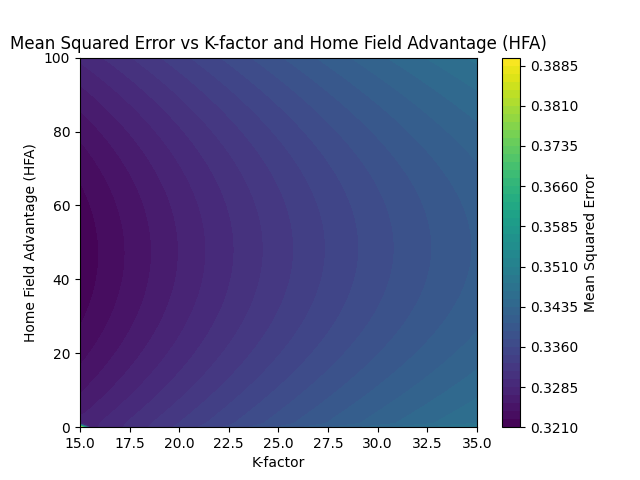
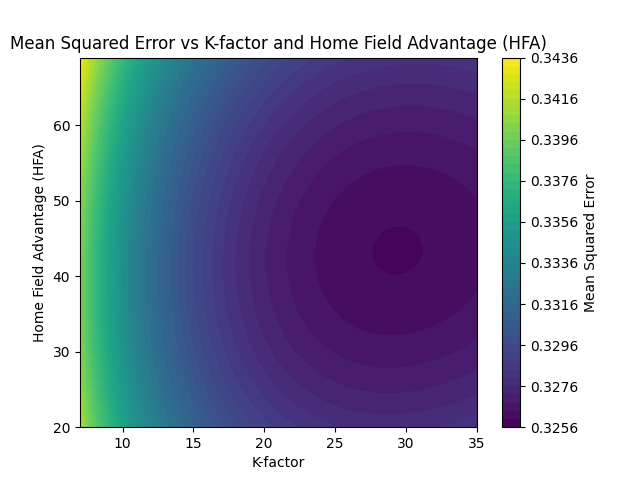
[FIX] step4 update_elo_ratings : K = 29.5 // HFA = 43

diff --git a/step4_bestHFAandK.py b/step4_bestHFAandK.py
@@ -13,7 +13,7 @@ elo_ratings = {team: 1600 for team in set(teams)}
 def expected_score(rating1, rating2):
     return 1 / (1 + 10**((rating2 - rating1) / 400))
 
-def update_elo_ratings(home_team, away_team, home_goals, away_goals, K, HFA):
+def update_elo_ratings(home_team, away_team, home_goals, away_goals, K, HFA, elo_ratings):
     home_rating = elo_ratings[home_team] + HFA
     away_rating = elo_ratings[away_team]
     
@@ -42,8 +42,8 @@ def encode_result(home_score, away_score):
         return 0.5, 0.5
 
 # Grid search for K and HFA
-K_values = np.arange(15, 35.5, 0.5)
-HFA_values = np.arange(0, 101, 1)
+K_values = np.arange(7, 35.5, 0.5)
+HFA_values = np.arange(20, 70, 1)
 errors = np.zeros((len(K_values), len(HFA_values)))
 
 for i, K in enumerate(K_values):
@@ -65,7 +65,7 @@ for i, K in enumerate(K_values):
             expected_home = expected_score(home_rating, away_rating)
             expected_away = expected_score(away_rating, home_rating)
 
-            update_elo_ratings(home_team, away_team, home_score, away_score, K, HFA)
+            update_elo_ratings(home_team, away_team, home_score, away_score, K, HFA, ratings)
 
             squared_errors.append((expected_home - home_result)**2 + (expected_away - away_result)**2)
 
